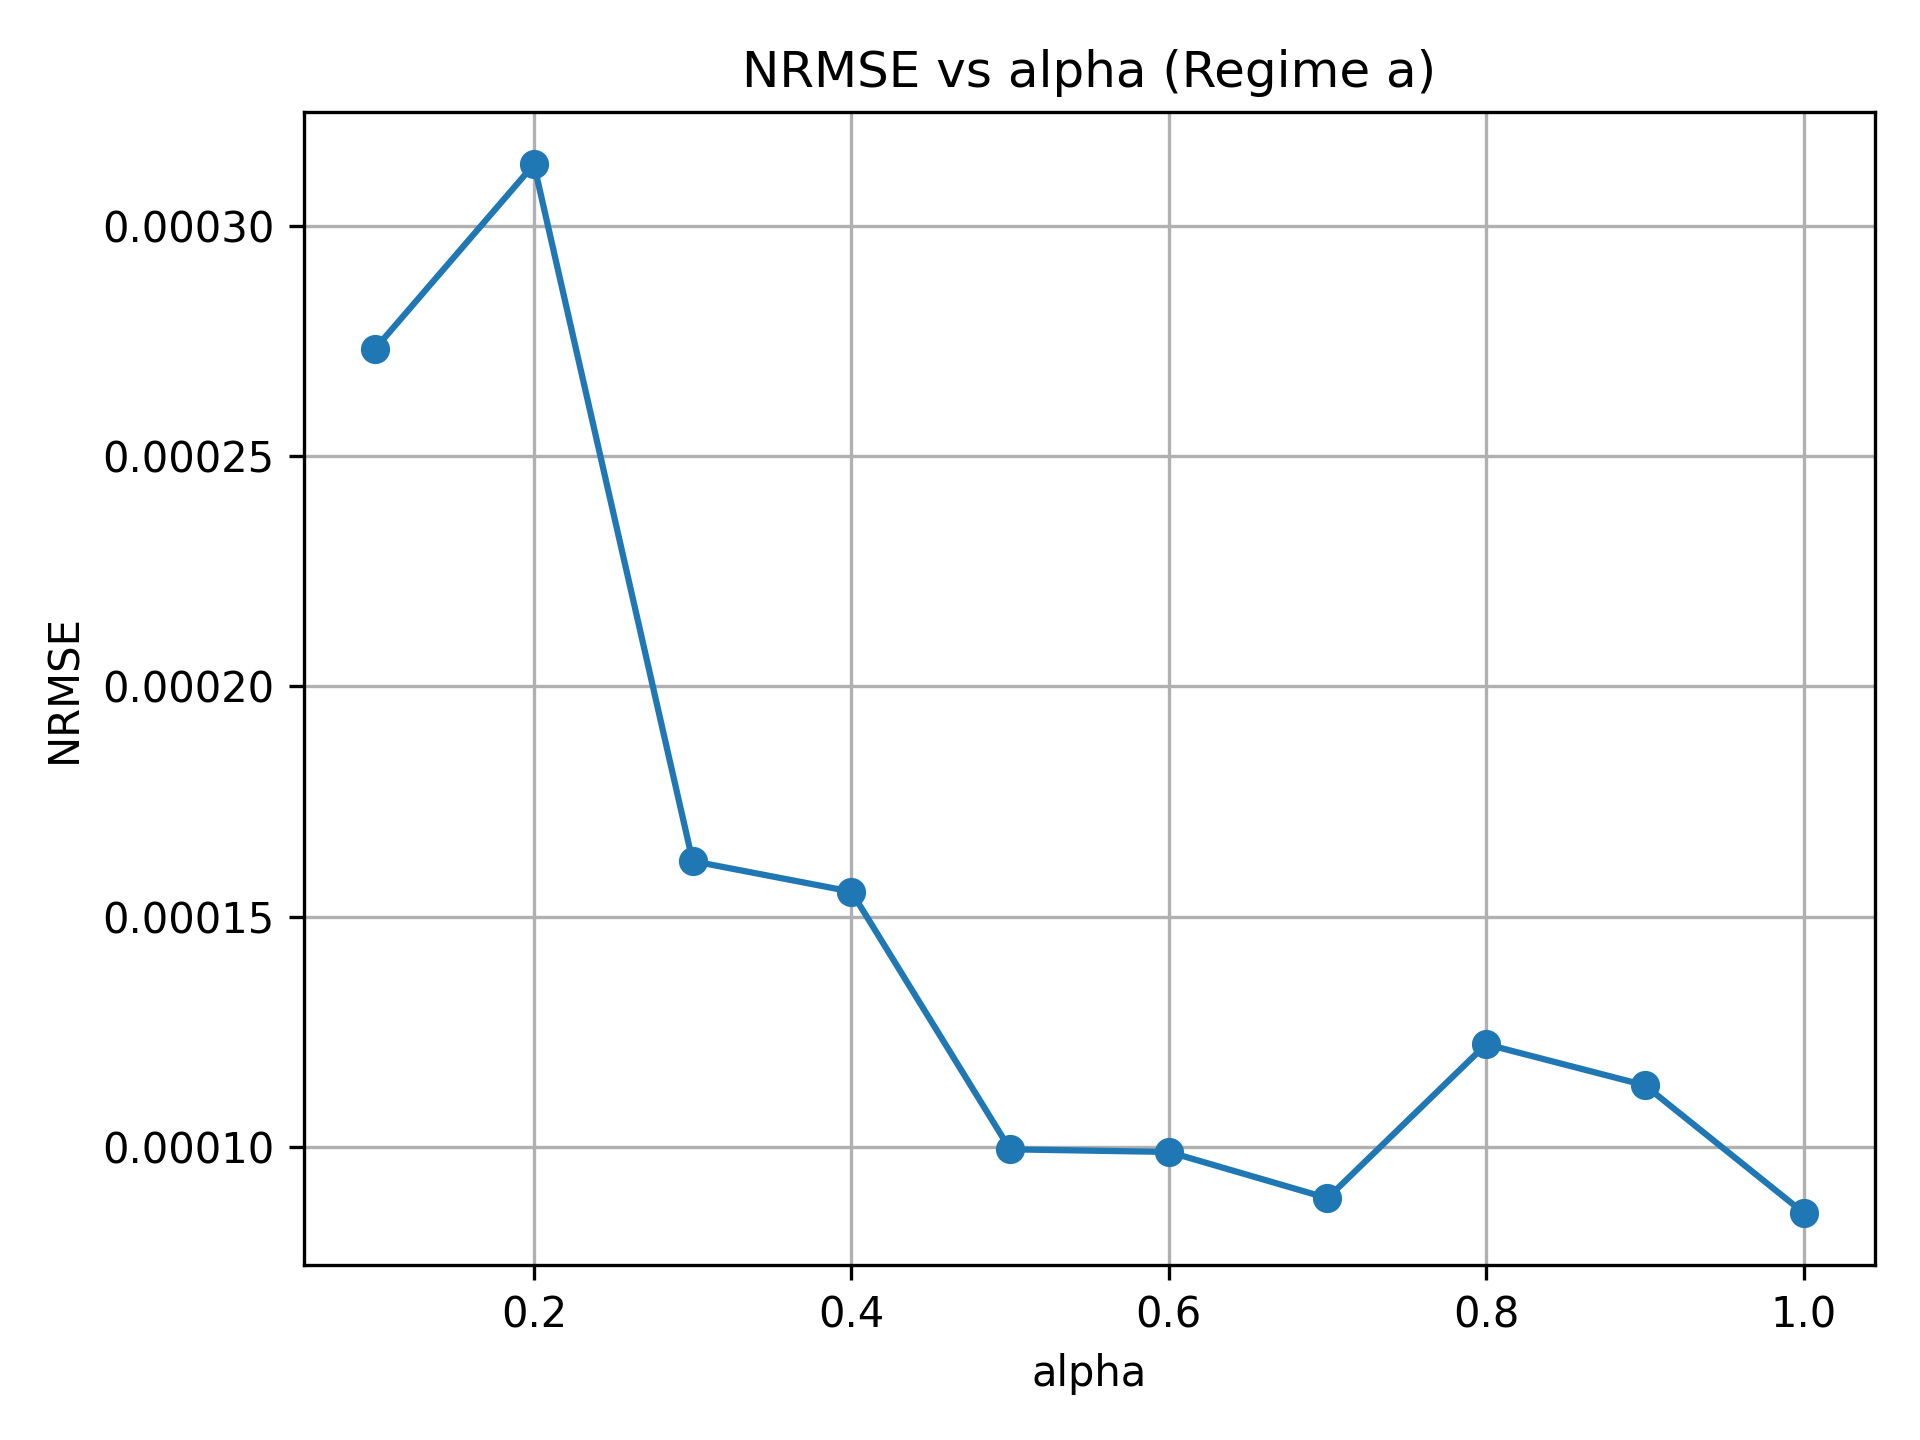
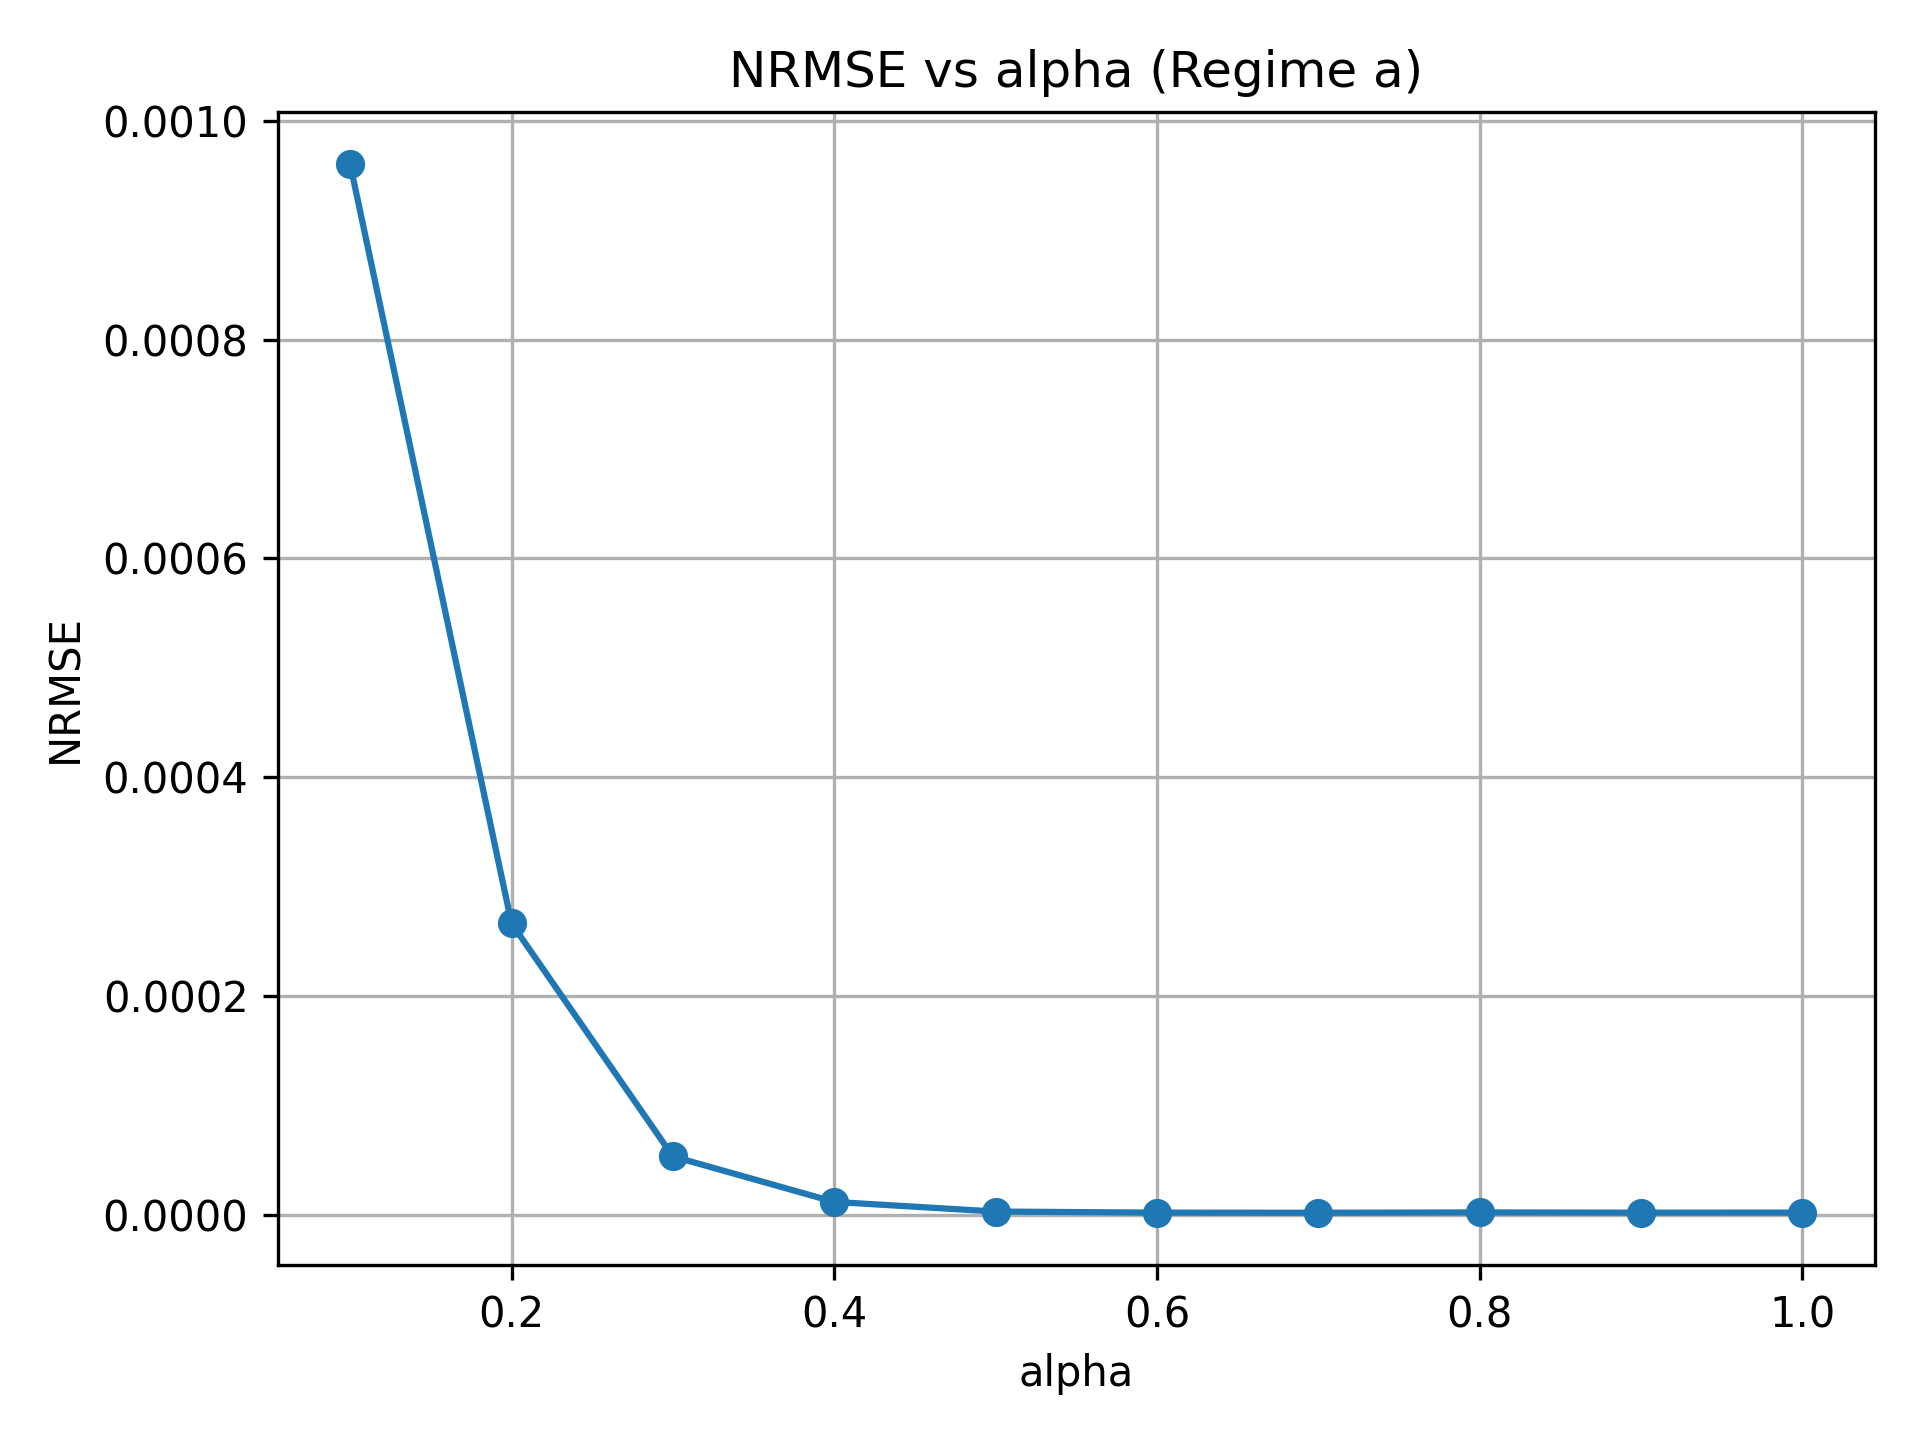
B1 updated

diff --git a/B1/Prob-B-1.py b/B1/Prob-B-1.py
@@ -26,7 +26,7 @@ from A2 import all_data
 # Function to compute NRMSE for a given hyperparameter
 def compute_nrmse(param_name, param_value, u_train, y_train):
     # kwargs = {'Nres': 600, 'p': 0.7, 'alpha': 0.5, 'rho': 0.9}
-    kwargs = {'Nres': 600, 'p': 0.7, 'alpha': 0.1, 'rho': 0.85}
+    kwargs = {'Nres': 850, 'p': 0.7, 'alpha': 0.1, 'rho': 0.85}
     kwargs[param_name] = param_value
     esn = ESN(**kwargs)
     return esn.train(u_train, y_train)
